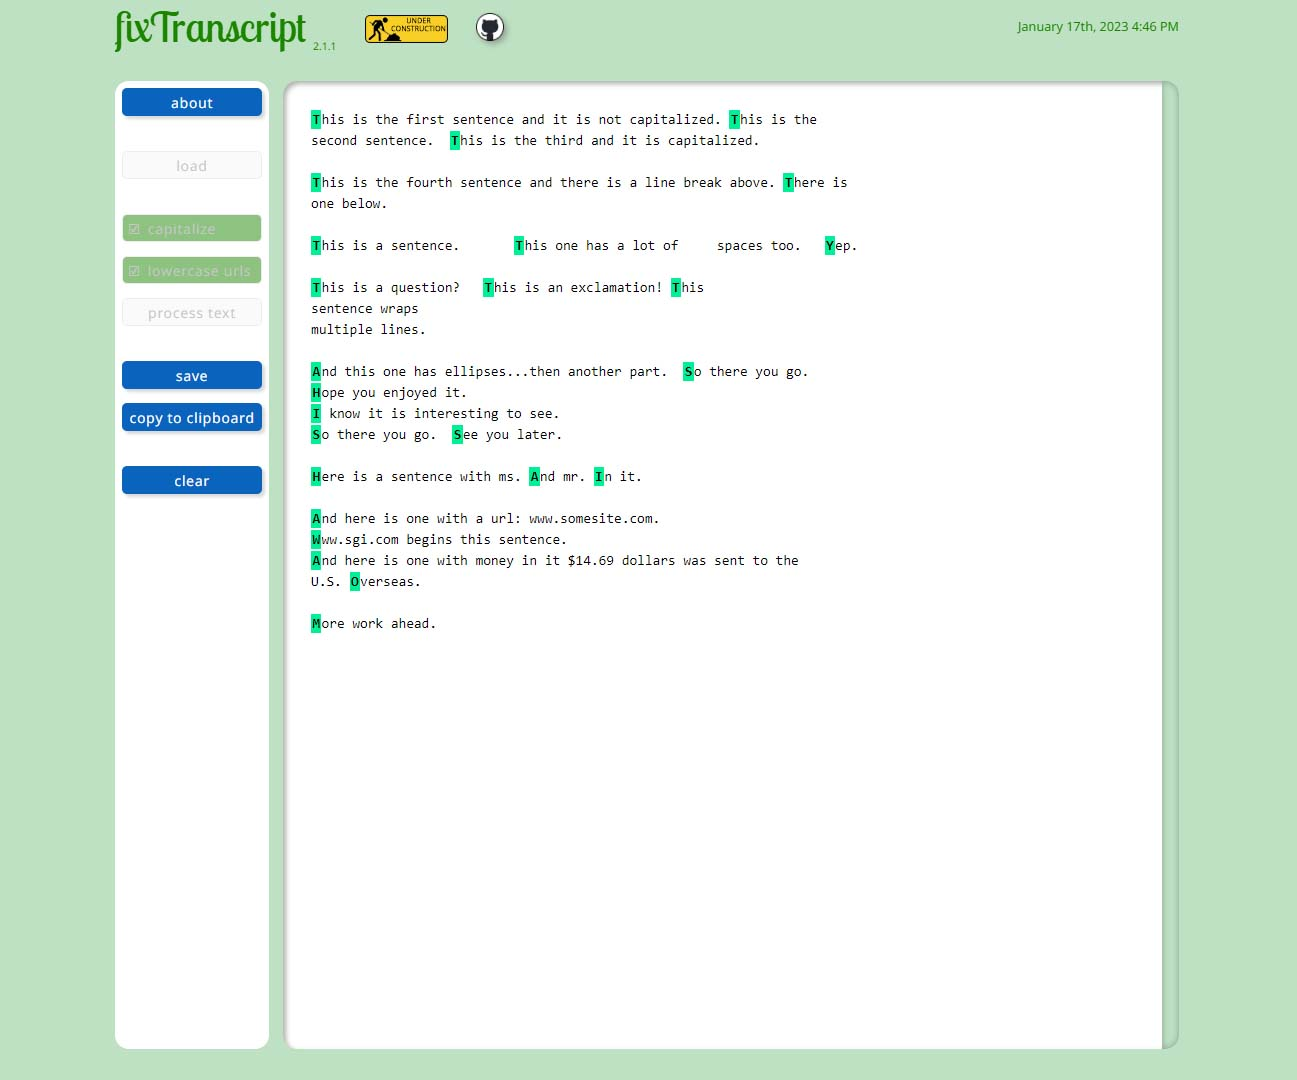
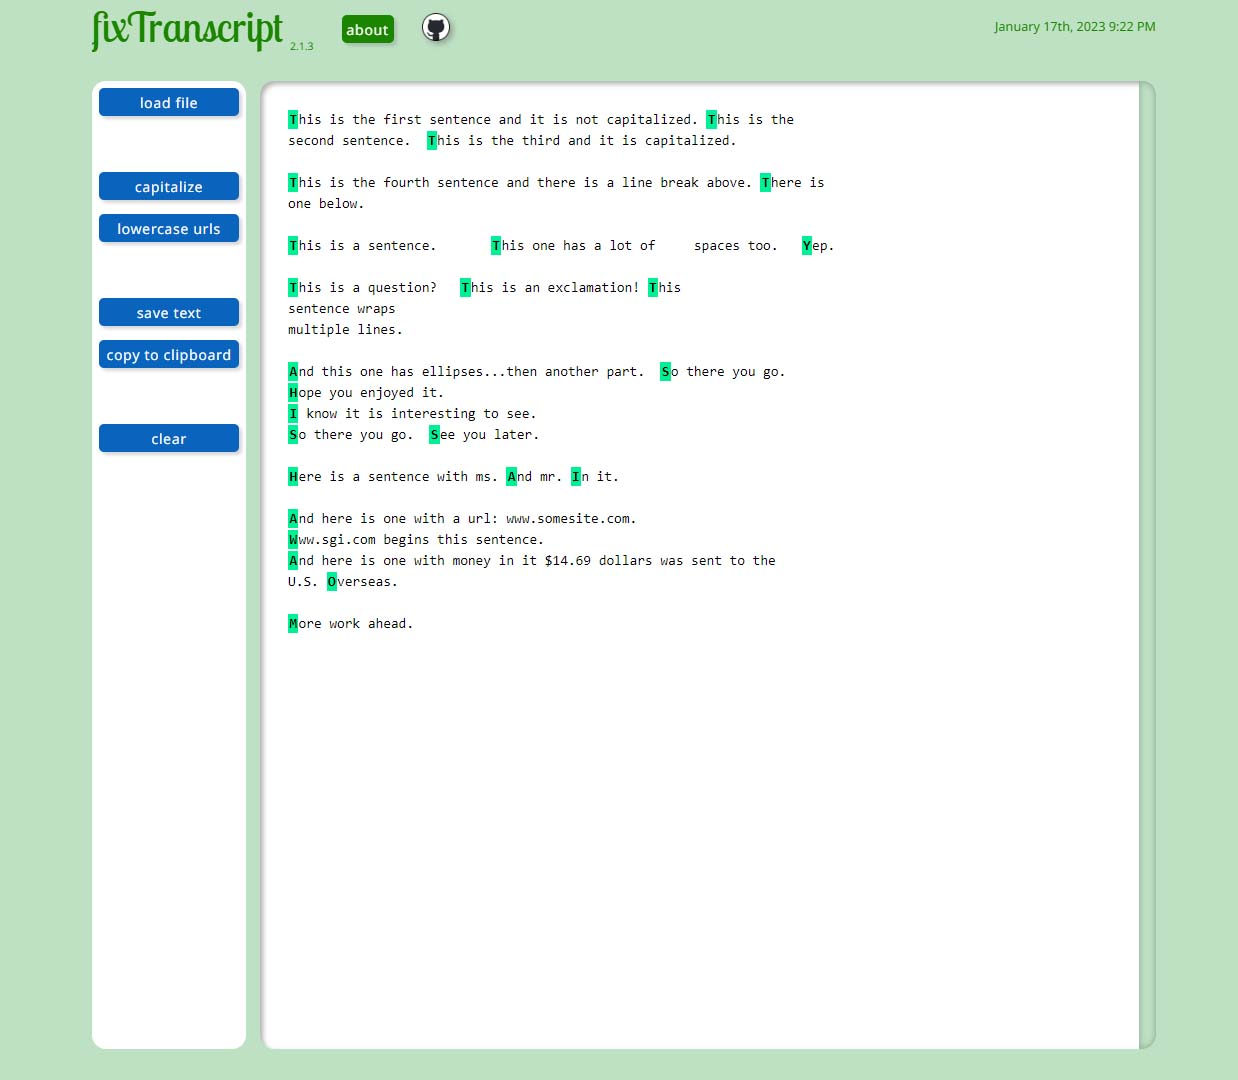
updated version number; updated screenshot

diff --git a/main/main.css b/main/main.css
@@ -91,9 +91,15 @@ ol {
 
 .mainAboutButton {
   background: rgb(255, 150, 0);
+  background: var(--darkGreen);
   height: 2rem;
   margin-left: 2rem;
   margin-top: 0.4rem;
+}
+
+
+.mainAboutButton:hover {
+  background: var(--green);
 }
 
 

diff --git a/components/version/version.js b/components/version/version.js
@@ -2,5 +2,5 @@
 export { getVersion };
 
 function getVersion() {
-  return '2.1.1';
+  return '2.1.3';
 }
